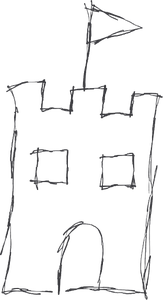
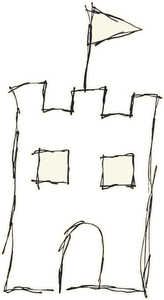
v0.2.1: 타격 이펙트 강화, 연필 풍경 배경, 카드·HUD·버튼 다듬기

Changed region(s): [[0.0, 0.0, 1.0, 1.0], [0.184, 0.48, 0.4294, 0.63], [0.5828, 0.51, 0.8589, 0.63]]

diff --git a/CREDITS.md b/CREDITS.md
@@ -6,7 +6,8 @@
 |---|---|---|---|---|---|---|
 | Nanum Pen Script (글꼴) | google/fonts main(2026-11-08 수신) | NHN Corporation | SIL OFL 1.1 | https://github.com/google/fonts/tree/main/ofl/nanumpenscript | 모든 화면 글자(assets/fonts/, 라이선스 OFL.txt 동봉) | 없음 |
 | 코드 낙서 렌더러 + 종이 질감 셰이더 | v0.1.1 | 직접 제작(Claude 작성) | 프로젝트 자체 코드 | scripts/doodle.gd, shaders/paper.gdshader | 유닛·적·메뉴 장식·땅 선·종이 배경(별도 종이 텍스처 파일 없이 셰이더 노이즈로 생성) | - |
-| base_tower.png (연필 탑) | v0.1.1 | AI 생성(Codex 내장 이미지 생성) | 생성물(사용 제한 없음, 외부 에셋 아님) | 프롬프트는 ASSET_PROMPTS.md. 원본 assets/raw/base_tower_raw.png | 아군 기지 | 밝기 기반 알파로 종이 제거(rembg 시험 후 윤곽 안쪽까지 흰색이 남아 밝기 방식 채택), 잘라내기, 높이 300으로 축소 |
+| base_tower.png (연필 탑) | v0.1.1 | AI 생성(Codex 내장 이미지 생성) | 생성물(사용 제한 없음, 외부 에셋 아님) | 프롬프트는 ASSET_PROMPTS.md. 원본 assets/raw/base_tower_raw.png | 아군 기지 | 밝기 기반 알파로 종이 제거(rembg 시험 후 윤곽 안쪽까지 흰색이 남아 밝기 방식 채택), 잘라내기, 높이 300으로 축소. v0.2.1에서 안쪽을 종이색으로 채우고 선을 진하게 재처리 |
 | base_castle.png (볼펜 성) | v0.1.1 | AI 생성(Codex 내장 이미지 생성) | 생성물(사용 제한 없음, 외부 에셋 아님) | 프롬프트는 ASSET_PROMPTS.md. 원본 assets/raw/base_castle_raw.png | 적 기지 | 위와 같음 |
 | Black Han Sans (글꼴) | google/fonts main(2026-11-08 수신) | Black Han Sans Project Authors (Zess Type) | SIL OFL 1.1 | https://github.com/google/fonts/tree/main/ofl/blackhansans | 메인 화면 제목(assets/fonts/, 라이선스 OFL_BlackHanSans.txt 동봉) | 없음 |
 | Nanum Gothic Bold (글꼴) | google/fonts main(2026-11-08 수신) | NHN Corporation | SIL OFL 1.1 | https://github.com/google/fonts/tree/main/ofl/nanumgothic | 메인 화면 메뉴·버전(assets/fonts/, 라이선스 OFL_NanumGothic.txt 동봉) | 없음 |
+| bg_battle.png (연필 풍경 스케치) | v0.2.1 | AI 생성(Codex 내장 이미지 생성) | 생성물(사용 제한 없음, 외부 에셋 아님) | 프롬프트는 ASSET_PROMPTS.md. 원본 assets/raw/bg_battle_raw.png | 전투 배경(움직이지 않음) | 밝기 기반 알파로 종이 제거, 1280x720 축소, 아래로 64px 이동 |

diff --git a/ASSET_PROMPTS.md b/ASSET_PROMPTS.md
@@ -20,3 +20,7 @@
 - base_tower_raw → base_tower: 스캔한 스케치북 한 페이지를 위에서 평면으로 찍은 이미지. 균일한 조명, 그림자·비네팅·책상·사물 없음, 배경은 빈 흰 종이. 어린이가 연필 하나로 급하게 그린 낙서 탑 하나를 가운데에 작게(화면의 60% 이하). 삐뚤삐뚤한 네모 탑, 꼭대기에 작은 깃발, 창문 두 개, 문 하나. 선 굵기 불균일, 비대칭, 선이 덜 닫히고 겹침. 음영·그라데이션·색 없음, 연필 회색 선만. 대충 그린 느낌. 내장 이미지 생성 도구만 사용하고, 스크립트를 만들거나 API를 호출하지 마.
 - base_castle_raw → base_castle: 스캔한 스케치북 한 페이지를 위에서 평면으로 찍은 이미지. 균일한 조명, 그림자·비네팅·책상·사물 없음, 배경은 빈 흰 종이. 어린이가 검은 볼펜 하나로 급하게 칠한 시커먼 낙서 성 하나를 가운데에 작게(화면의 60% 이하). 뾰족한 탑 세 개 실루엣을 무작위 방향의 볼펜 선으로 빽빽하게 칠해 채우고 외곽은 거칠고 삐죽삐죽. 검은색 한 가지뿐, 음영·그라데이션·다른 색 없음. 대충 그린 느낌. 내장 이미지 생성 도구만 사용하고, 스크립트를 만들거나 API를 호출하지 마.
 후처리: rembg(isnet-general-use) 또는 밝기 기반 알파 → assets/art/. 원본은 assets/raw/.
+
+## v0.2.1 전투 배경 (움직이지 않는 것이라 AI 허용, assets/art/bg_battle.png)
+- bg_battle_raw → bg_battle: 스캔한 스케치북 한 페이지를 위에서 평면으로 찍은 가로 16:9 이미지. 균일한 조명, 그림자·비네팅·책상·사물 없음, 배경은 빈 흰 종이. 연필 한 자루로 그린 풍경 스케치: 위쪽 절반에 먼 뾰족한 산맥(연한 빗금 음영), 무너진 돌 아치와 다리의 폐허 실루엣, 오른쪽 위에 큰 보름달 원, 죽은 나무 두어 그루, 흩어진 구름 낙서. 선은 불균일하고 손으로 급하게 그린 느낌, 흑백 연필 회색만, 색 없음. 화면 아래쪽 35%는 아무것도 그리지 말고 빈 종이로 둘 것. 캐릭터·사람·동물·글씨 없음. 내장 이미지 생성 도구만 사용하고, 스크립트를 만들거나 API를 호출하지 마.
+후처리: 밝기 기반 알파(종이 제거) + 아래쪽(땅 위치 65% 이하) 투명하게 페이드, 1280x720.

diff --git a/CHANGELOG.md b/CHANGELOG.md
@@ -1,5 +1,12 @@
 # CHANGELOG
 
+## [0.2.1] - 2026-11-08
+- 타격 이펙트 강화: 맞는 순간 폭발 낙서 + 튀는 파편선 + 의성어(퍽!·쾅!·탁!·팍!) + 올라가는 데미지 숫자 + 화면 흔들림. 맞은 유닛은 뒤로 밀렸다 돌아오고 기지는 부르르 떨림
+- 전투 배경: 연필 풍경 스케치(산, 폐허 아치와 다리, 보름달, 죽은 나무)로 교체. 땅 선·풀·땅 음영은 코드로 위에 그림
+- 우리 기지(연필 탑)를 종이색으로 채워 배경 위에서 또렷하게
+- UI: 카드에 종류별 색·그림자·테이프·기울기·눌림 반응·남은 초 표시, 굵은 비용 숫자. HUD에 기지 아이콘·굵은 HP 숫자·눈금 막대·그림자. 버튼은 종이 쪽지 모양
+- 로직이 타격 이벤트(events)를 화면에 넘김(데미지는 로직에서만)
+
 ## [0.2.0] - 2026-11-08
 - 스틱맨을 관절 데이터로 정의하고 자세 5종 추가: 걷기 A·B, 공격 준비, 타격(속도선), 피격(충격선)
 - 공격이 준비 → 타격 순간 데미지 → 타격 자세 → 걷기로 진행(공격 주기는 기존 cooldown 그대로, 준비 중 대상이 사라지면 헛스윙)

diff --git a/CLAUDE.md b/CLAUDE.md
@@ -49,7 +49,8 @@
 | v0.1.0 | 프로젝트 세팅 + 스케치북 메인 + 전장 1줄 + 고양이 소환·전진·전투 + 기지 체력 | 완료 |
 | v0.1.1 | 하이브리드 그림(코드 낙서 렌더러, 아군 4종·적 3종, 종이 메인, 메모지 카드, 테이프 HUD, AI 기지) | 완료 |
 | v0.1.2 | 피드백 반영(메인 고딕체·캐릭터, 전장 도화지·풍경 배경, 카드 축소) | 완료 |
-| v0.2.0 | 모션 + 그림 단계 실험(스틱맨 관절·자세 5종, 레벨 1~9 스타일) — 방향 확인 | 검토 중 |
+| v0.2.0 | 모션 + 그림 단계 실험(스틱맨 관절·자세 5종, 레벨 1~9 스타일) — 방향 확인 | 완료 |
+| v0.2.1 | 타격 이펙트 강화 + 전투 배경(AI 풍경)·UI 다듬기 | 검토 중 |
 | v0.3.0 | 적 + 돈 자동 증가 + 비용·쿨타임 + 승패 | 대기 |
 | v0.4.0 | 유닛 여러 종 + 팀 편성 | 대기 |
 | v0.5.0 | 레벨업 + 진화 10/20/30(잉크) + 저장 | 대기 |

diff --git a/PROGRESS.md b/PROGRESS.md
@@ -24,3 +24,8 @@
 - 스틱맨만 5자세(walk_a/b, windup, strike, hurt). 로직에 state·t·hurt_t(준비 0.25·타격 0.2·피격 0.15초)
 - 굽기 1장 약 7ms(10장 69ms). 그림 레벨 시험 링크(1~9)
 - 발견: godot -s는 스크립트 파싱 오류에도 종료 코드 0 → deploy.yml에 "실패 0건" grep 추가
+
+## v0.2.1 (2026-11-08)
+- 요청: 타격 이펙트 확실하게, 배경·UI 퀄리티. 참고 사진(냥코식 전장) 참고
+- 이펙트: 로직 events → 화면(폭발 낙서 3종 미리 굽기, 파편, 의성어, 데미지 숫자, 흔들림, 반동). 배경: AI 연필 풍경(움직이지 않는 것) + 코드 땅. UI: 카드·HUD·버튼 다듬기
+- 우리 기지 이미지를 종이색 채움으로 재처리(배경과 구분)
